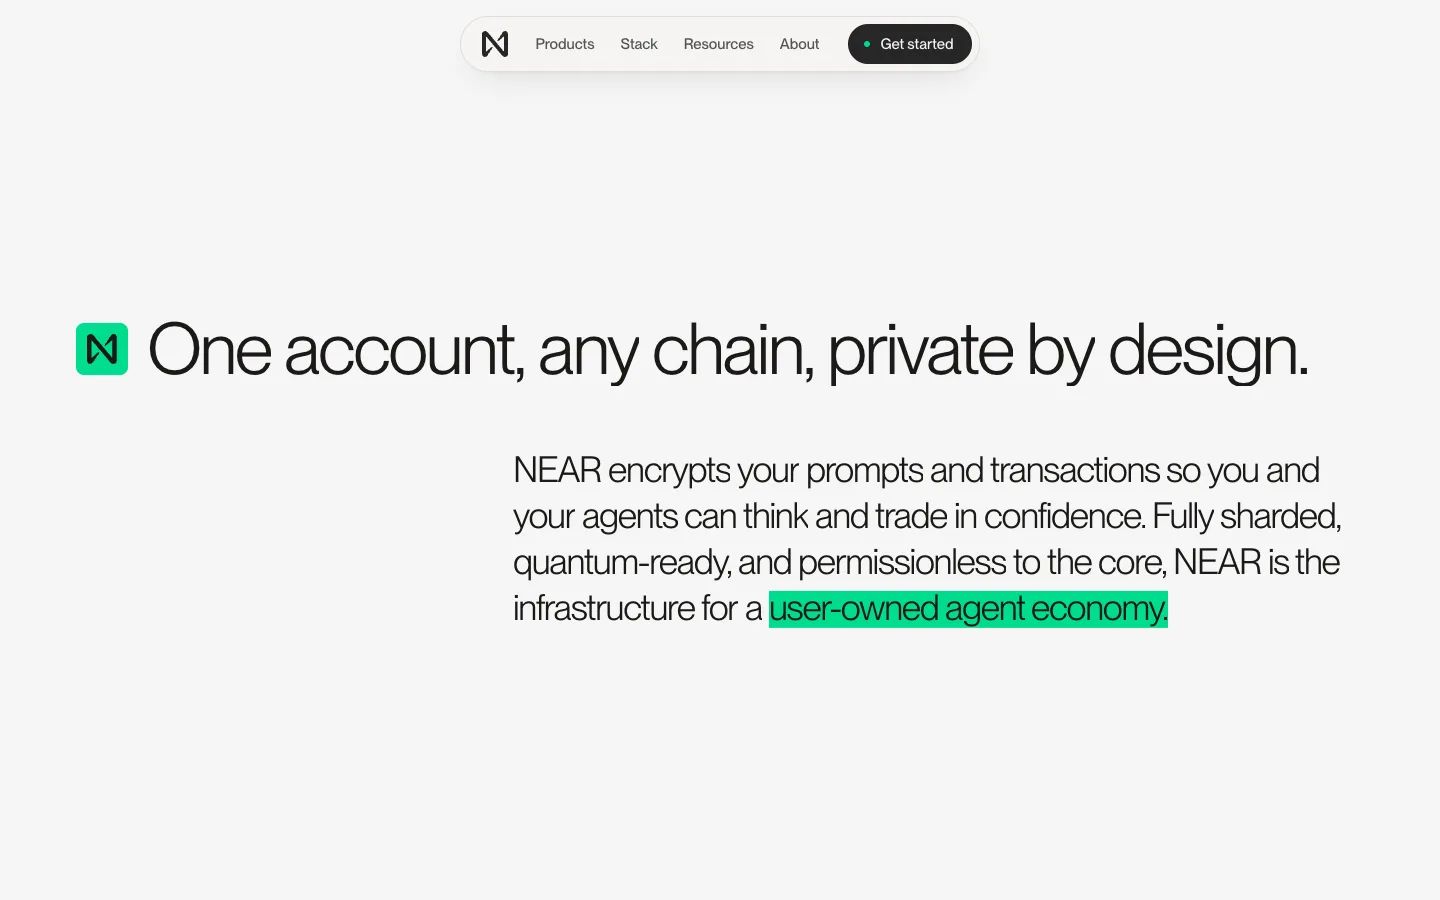
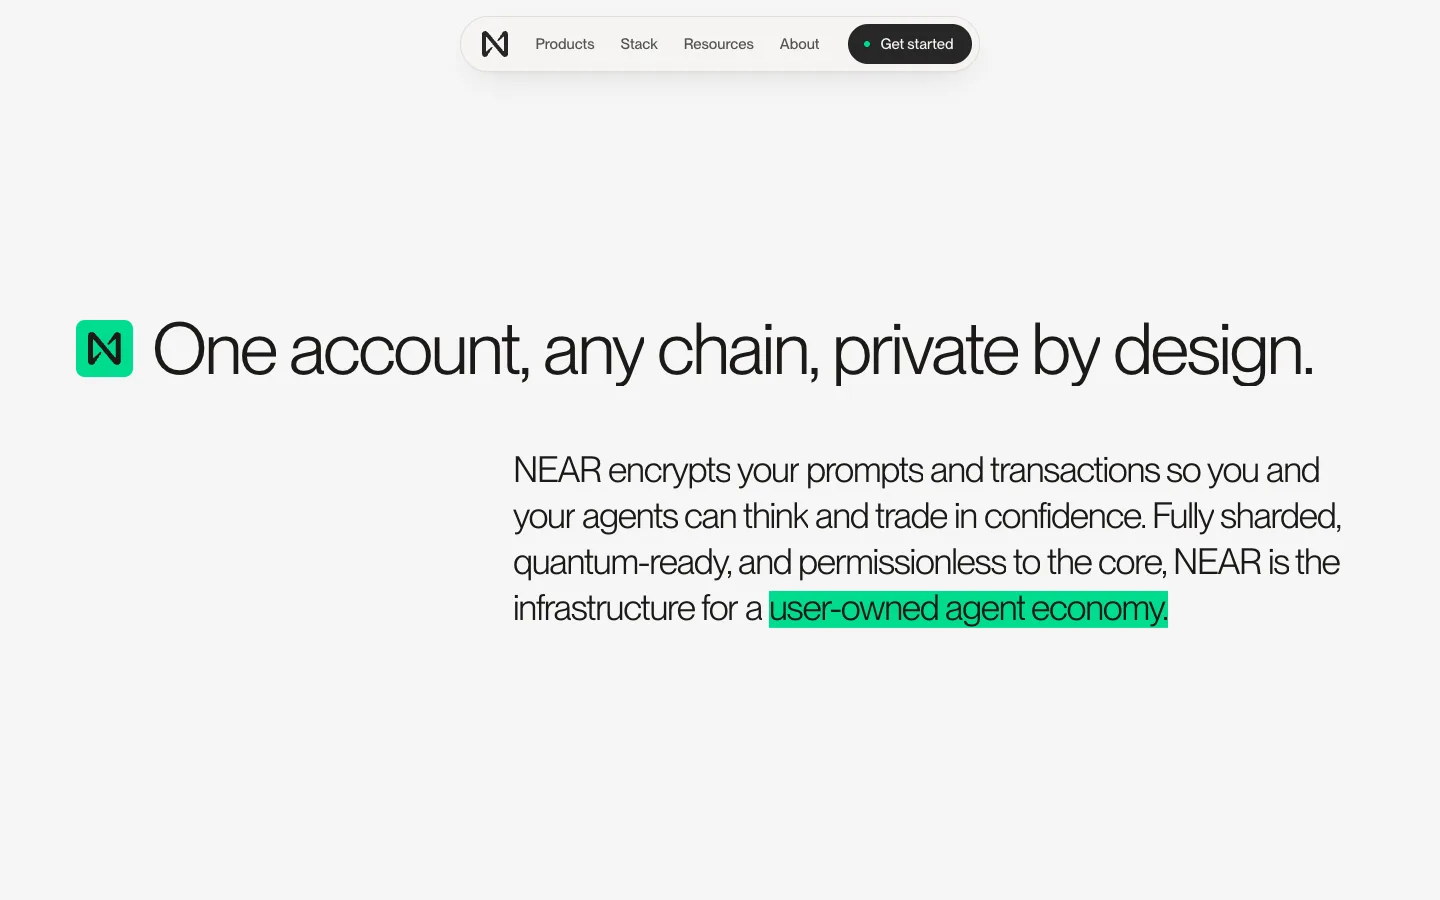
home-v6: intro is layout G (Lead and follow) with the N tile 10% bigger
D146 put H on the page by mistake; G was the pick (D147). The tile is 1.1x
the lead's cap height, centred on it; H goes back to its round 2 size.

Changed region(s): [[0.0625, 0.3422, 0.9062, 0.4356]]

diff --git a/src/components/v6/intro/intro.css b/src/components/v6/intro/intro.css
@@ -146,10 +146,10 @@
 /* ───────── G · Lead and follow, on twelve columns (C): the lead across all twelve, the tile set into its first line; the follow in columns 5–12 ───────── */
 .statement[data-st="g"] { --lead: calc(5 * var(--u)); --st: calc(2.5 * var(--u)); }   /* the lead and its tile fit the twelve columns (5.3 u ran 18 px past) */
 .statement[data-st="g"] .statement__tile {
-  position: absolute; left: var(--m); top: calc((var(--lead-lh) - .72) * .5 * var(--lead)); width: calc(.72 * var(--lead)); margin: 0; border-radius: calc(.11 * var(--lead));
-}
+  position: absolute; left: var(--m); top: calc((var(--lead-lh) - .792) * .5 * var(--lead)); width: calc(.792 * var(--lead)); margin: 0; border-radius: calc(.121 * var(--lead));
+}   /* the lead's cap height, 10 % up (D147), centred on it: 3.6 % over the cap and under the baseline */
 .statement[data-st="g"] .statement__inner { position: relative; }
-.statement[data-st="g"] .st__lead { padding-left: .98em !important; }
+.statement[data-st="g"] .st__lead { padding-left: 1.052em !important; }   /* the tile and the same .26 em gap */
 @media (min-width: 761px) {
   .statement[data-st="g"] .statement__inner { row-gap: calc(4.2 * var(--u)); }
   .statement[data-st="g"] .st__lead { grid-column: 1 / -1; white-space: nowrap; }
@@ -161,7 +161,7 @@
 .statement[data-st="h"] .st__lead { white-space: normal; max-width: 10.6em; }   /* two lines, broken after "chain," */
 @media (min-width: 761px) {
   .statement[data-st="h"] .statement__inner { grid-template-rows: auto auto; row-gap: calc(.5 * var(--lead)); }
-  .statement[data-st="h"] .statement__tile { grid-column: 1; grid-row: 1; width: calc(1.1 * .72 * var(--lead)); border-radius: calc(1.1 * .1 * var(--lead)); }   /* the lead's cap height, 10 % up (D146) */
+  .statement[data-st="h"] .statement__tile { grid-column: 1; grid-row: 1; width: calc(.72 * var(--lead)); border-radius: calc(.1 * var(--lead)); }   /* the lead's cap height */
   .statement[data-st="h"] .st { grid-row: 2; grid-template-rows: auto; }
   .statement[data-st="h"] .st__lead { grid-column: 1 / span 6; }
   /* the deck's cap height on the lead's: its top drops by the difference in their half-leading and cap tops */
@@ -266,7 +266,7 @@
   .statement[data-st="l"] .st__rest { grid-column: 3 / -1; }
   /* the one-line leads (G, K) break after "chain,"; G's tile stands above it; I and J's six lines re-wrap */
   .statement:is([data-st="g"], [data-st="k"]) .st__lead { white-space: normal; padding-right: calc(100% - 10.6em); }   /* the box stays full width (K's rule under it) */
-  .statement[data-st="g"] .statement__tile { grid-column: 1; position: static; width: 34px; margin-bottom: calc(2.4 * var(--u)); border-radius: 6px; }
+  .statement[data-st="g"] .statement__tile { grid-column: 1; position: static; width: 37px; margin-bottom: calc(2.4 * var(--u)); border-radius: 6.6px; }   /* 10 % over 34 px (D147) */
   .statement[data-st="g"] .st { grid-row: 2 / span 2; }
   .statement[data-st="g"] .st__lead { padding-left: 0 !important; }
   .statement:is([data-st="i"], [data-st="j"]) .st__l { display: inline; white-space: normal; }
@@ -279,11 +279,10 @@
   .statement:is([data-st="g"], [data-st="h"], [data-st="k"], [data-st="l"]) .st__lead { margin-bottom: 22px; }
   .statement:is([data-st="i"], [data-st="j"]) { --st: clamp(24px, 6.6vw, 38px); --top: 24px; }
   .statement:is([data-st="k"], [data-st="l"]) { --top: 24px; }
-  .statement[data-st="g"] .statement__tile { position: static; width: 30px; margin-bottom: 22px; border-radius: 6px; }   /* above the lead: set into a wrapping lead it indented every line */
+  .statement[data-st="g"] .statement__tile { position: static; width: 33px; margin-bottom: 22px; border-radius: 6.6px; }   /* above the lead: set into a wrapping lead it indented every line; 10 % over 30 px (D147) */
   .statement[data-st="g"] .st__lead { padding-left: 0 !important; }
   .statement[data-st="i"] .statement__tile { width: 64px; border-radius: 10px; }
   .statement[data-st="j"] .statement__tile { width: 44px; }
   .statement[data-st="k"] .statement__tile, .statement[data-st="l"] .statement__tile { width: 56px; border-radius: 9px; }
-  .statement[data-st="h"] .statement__tile { width: 33px; border-radius: 6.6px; }   /* phones: 10 % over the 30 px tile (D146) */
   .statement[data-st="k"] .st__lead { position: relative; padding-bottom: 22px; margin-bottom: 22px; border-bottom: 1px solid var(--line); }
 }

diff --git a/src/components/v6/intro/index.ts b/src/components/v6/intro/index.ts
@@ -42,14 +42,14 @@ export const ST: Record<StKey, St> = {
     refs: [{ label: "Linear · statement on the page margin, lead in ink, rest in grey", href: "https://linear.app" }, { label: "Stripe · hero, lead dark, rest muted", href: "https://stripe.com" }, { label: "Attio · Platform (lead in ink, the rest after a break)", href: "https://attio.com" }],
   },
   g: {
-    key: "g", round: 2, name: "Lead and follow, on twelve columns", tag: "From C",
-    note: "C on the page's twelve columns: the lead across all twelve with the tile set into its first line at cap height; the follow at half its size from column 5, its left edge on a column line. Two sizes, 2 : 1.",
+    key: "g", round: 2, name: "Lead and follow, on twelve columns", tag: "In use on /home-v6",
+    note: "C on the page's twelve columns: the lead across all twelve with the tile set into its first line at cap height; the follow at half its size from column 5, its left edge on a column line. Two sizes, 2 : 1. The tile 10 % over the cap height; the layout in use on /home-v6 (D147).",
     basis: "An asymmetric grid: one wide field for the display line, a narrower one for reading; the empty columns 1–4 under the lead hold the step down.",
     refs: [{ label: "Daylight · letter (big heading over a column set to the right)", href: "https://daylightcomputer.com" }, { label: "Attio · Platform (lead in ink, the rest after a break)", href: "https://attio.com" }],
   },
   h: {
-    key: "h", round: 2, name: "Headline and deck", tag: "In use on /home-v6",
-    note: "The lead as a headline over two lines in columns 1–7; the rest beside it in columns 8–12 at half the size, their cap heights on one line. The tile above the headline, 10 % over its cap height. The layout in use on /home-v6 (D146).",
+    key: "h", round: 2, name: "Headline and deck", tag: "From C",
+    note: "The lead as a headline over two lines in columns 1–7; the rest beside it in columns 8–12 at half the size, their cap heights on one line. The tile above the headline, at its cap height.",
     basis: "The editorial headline-and-deck pair: two fields side by side, hung from one line, one size twice the other.",
     refs: [{ label: "Daylight · letter (big heading over a column set to the right)", href: "https://daylightcomputer.com" }],
   },

diff --git a/src/app/(site)/home-v6/page.tsx b/src/app/(site)/home-v6/page.tsx
@@ -9,7 +9,7 @@ export const metadata: Metadata = {
 // The hero hands over to the intro with transition I, "Into the grid · depth" (D121, built on B: D112; the studies are on /home-v6/transitions)
 const TX_IN_USE = "i" as const;
 // The intro's layout: H, "Headline and deck" (D146, chosen from the studies on /home-v6/intro; styles in components/v6/intro/intro.css)
-const ST_IN_USE = "h" as const;
+const ST_IN_USE = "g" as const;
 
 export default function HomeV6() {
   return <V6Page tx={TX_IN_USE} st={ST_IN_USE} />;
